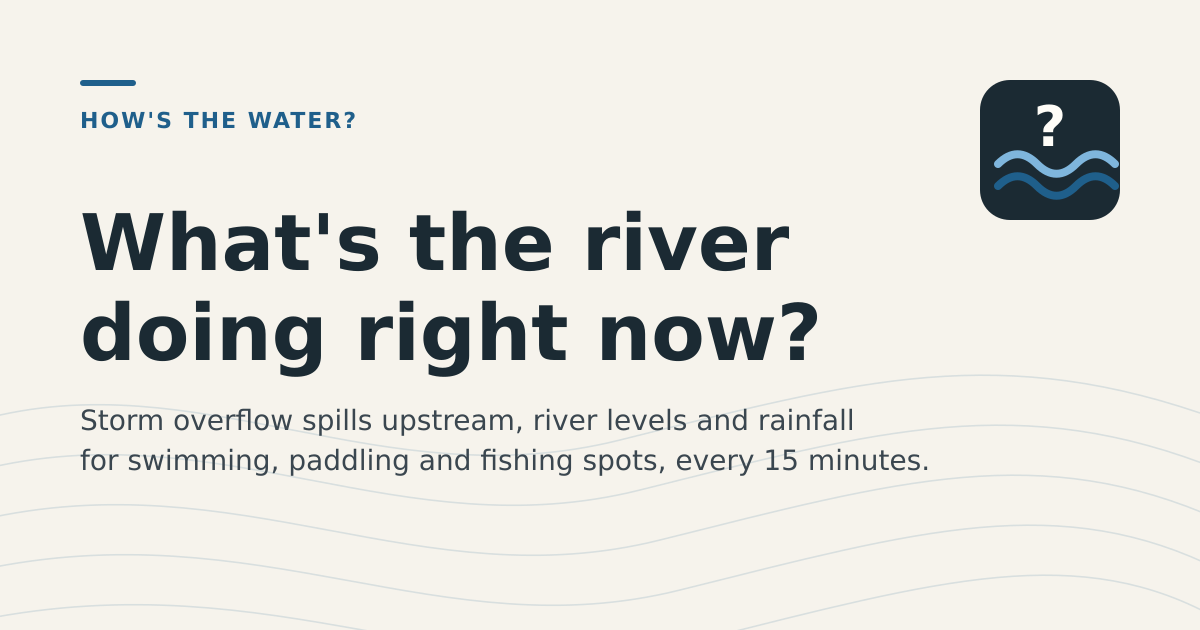
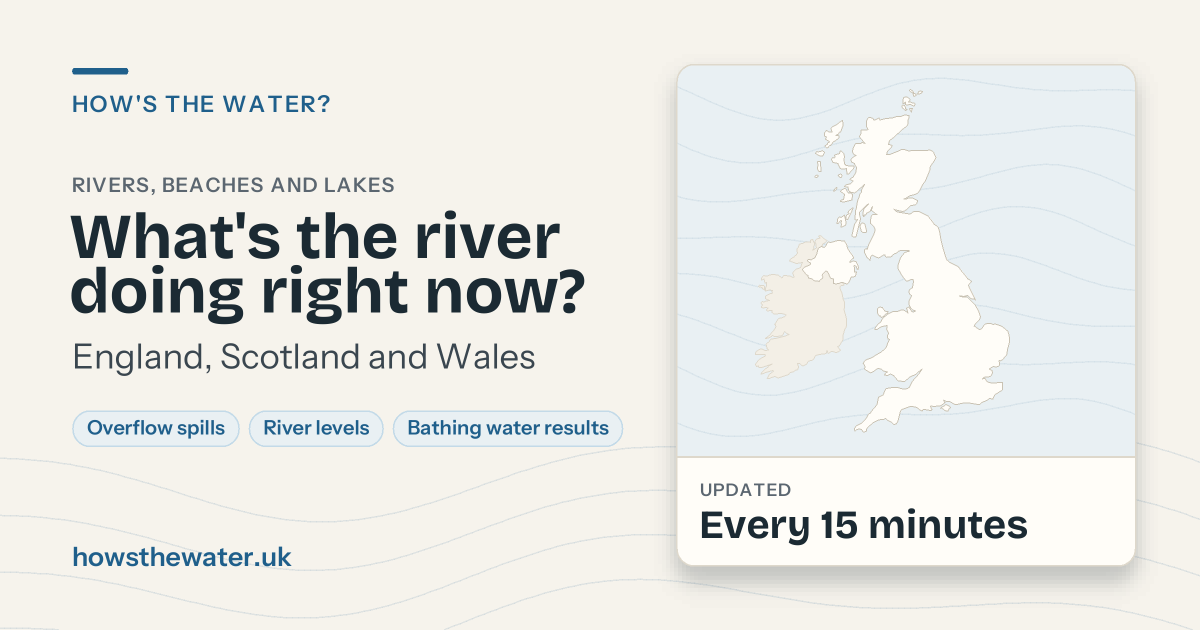
Draw the site's default share card with the same renderer as the page cards

diff --git a/app/Console/Commands/GenerateShareImages.php b/app/Console/Commands/GenerateShareImages.php
@@ -3,6 +3,8 @@
 namespace App\Console\Commands;
 
 use App\Actions\ShareImages\GenerateShareImages as GenerateShareImagesAction;
+use App\Services\ShareImages\ShareCardRenderer;
+use App\Services\ShareImages\ShareCards;
 use Illuminate\Console\Command;
 
 class GenerateShareImages extends Command
@@ -10,12 +12,20 @@ class GenerateShareImages extends Command
     protected $signature = 'share-images:generate
         {--force : Redraw every card, including those that have not changed}
         {--overflows : Draw overflow pages\' cards instead (scheduled), at most --limit a run}
-        {--limit=500 : With --overflows, the most cards to draw in one run}';
+        {--limit=500 : With --overflows, the most cards to draw in one run}
+        {--site : Redraw the site\'s own card, public/og-image.png, instead (run locally and commit it, as releases are read-only)}';
 
     protected $description = 'Draw the share card for every spot, river, beach and lake page (or, with --overflows, overflow page) whose card has changed';
 
-    public function handle(GenerateShareImagesAction $generate): int
+    public function handle(GenerateShareImagesAction $generate, ShareCards $cards, ShareCardRenderer $renderer): int
     {
+        if ($this->option('site')) {
+            file_put_contents(public_path('og-image.png'), $renderer->render($cards->forSite()));
+            $this->info('Drew public/og-image.png.');
+
+            return self::SUCCESS;
+        }
+
         if ($this->option('overflows')) {
             $result = $generate->handleOverflows(max(1, (int) $this->option('limit')), (bool) $this->option('force'));
             $this->info(sprintf('Drew %d overflow share cards, %d unchanged, %d removed, %d waiting for the next run.', $result['drawn'], $result['unchanged'], $result['removed'], $result['waiting']));

diff --git a/app/Services/ShareImages/ShareCards.php b/app/Services/ShareImages/ShareCards.php
@@ -19,6 +19,21 @@ use Illuminate\Support\Str;
 class ShareCards
 {
     /**
+     * The site's own card (public/og-image.png), for the home page and any page without a card of its own: Britain,
+     * with what the site covers. Named by country rather than region, as the regions grow.
+     */
+    public function forSite(): ShareCard
+    {
+        return new ShareCard(
+            eyebrow: 'Rivers, beaches and lakes',
+            title: "What's the river doing right now?",
+            subtitle: 'England, Scotland and Wales',
+            topics: ['Overflow spills', 'River levels', 'Bathing water results'],
+            alt: "How's the Water? card asking: what's the river doing right now?",
+        );
+    }
+
+    /**
      * @param  Collection<int, Spot>  $spotsOnRiver  The river's published spots, this one included
      */
     public function forSpot(Spot $spot, River $river, Region $region, Collection $spotsOnRiver): ShareCard

diff --git a/tests/Feature/ShareImagesTest.php b/tests/Feature/ShareImagesTest.php
@@ -139,3 +139,11 @@ it('redraws every overflow card when forced, and pins one with no river on Brita
 
     expect($nearBeach->fresh()->shareImage->alt)->toBe('Storm overflow YWS07777 into North Sea, Yorkshire, marked on a map of Britain');
 });
+
+it('draws the site\'s own card from the same renderer, naming the countries rather than the regions', function () {
+    $card = app(ShareCards::class)->forSite();
+
+    expect($card->subtitle)->toBe('England, Scotland and Wales')
+        ->and($card->pin)->toBeNull()
+        ->and(getimagesizefromstring(app(\App\Services\ShareImages\ShareCardRenderer::class)->render($card)))->toMatchArray([0 => 1200, 1 => 630]);
+});

diff --git a/AGENTS.md b/AGENTS.md
@@ -763,7 +763,8 @@ replacing the local database with a copy of live rather than backfilling.
   Earth), with the place pinned (an overflow square) under a popup naming it, and "Updated every 15 minutes" below. Never live status: social sites keep a
   card for days. A card is only redrawn when its fingerprint changes, and the file name carries the fingerprint, so
   bump `ShareCardRenderer::VERSION` whenever the drawing changes. Cards live on the public disk under `share/`, rows in
-  `share_images`; pages fall back to `og-image.png` until theirs is drawn.
+  `share_images`; pages fall back to `og-image.png` until theirs is drawn. That site card comes from the same renderer
+  (`ShareCards::forSite()`): run `share-images:generate --site` locally and commit it, as releases are read-only.
 - Spot, beach and lake pages end with a Nearby section (`NearbyPlaceFinder`, `components/nearby-places`): on spots the
   next spot up and down the river by distance along it (following a main river into the one it flows into, and up main
   rivers that join just above), then up to two beaches or lakes within 20 km; on beaches and lakes the three nearest

diff --git a/CLAUDE.md b/CLAUDE.md
@@ -763,7 +763,8 @@ replacing the local database with a copy of live rather than backfilling.
   Earth), with the place pinned (an overflow square) under a popup naming it, and "Updated every 15 minutes" below. Never live status: social sites keep a
   card for days. A card is only redrawn when its fingerprint changes, and the file name carries the fingerprint, so
   bump `ShareCardRenderer::VERSION` whenever the drawing changes. Cards live on the public disk under `share/`, rows in
-  `share_images`; pages fall back to `og-image.png` until theirs is drawn.
+  `share_images`; pages fall back to `og-image.png` until theirs is drawn. That site card comes from the same renderer
+  (`ShareCards::forSite()`): run `share-images:generate --site` locally and commit it, as releases are read-only.
 - Spot, beach and lake pages end with a Nearby section (`NearbyPlaceFinder`, `components/nearby-places`): on spots the
   next spot up and down the river by distance along it (following a main river into the one it flows into, and up main
   rivers that join just above), then up to two beaches or lakes within 20 km; on beaches and lakes the three nearest

diff --git a/README.md b/README.md
@@ -32,8 +32,9 @@ Tributaries don't get pages; their monitors count as upstream of any spot below 
 Spot conditions are cached for up to 30 minutes and flushed by every ingest and positioning run, so pages are cheap
 to serve. Set `CACHE_STORE=redis` in production if Redis is available; the database store works fine too.
 
-Every page carries Open Graph and Twitter card tags with a shared image at `/og-image.png` (rendered from
-`resources/images/og-image.svg` with Inkscape), and `/sitemap.xml` lists the home, region, river and spot pages.
+Every page carries Open Graph and Twitter card tags. Spot, river, beach, lake and overflow pages get their own card,
+drawn by `share-images:generate`; the rest share `/og-image.png`, redrawn with `php artisan share-images:generate --site`
+and committed. `/sitemap.xml` lists the public pages.
 
 ## Data sources
 
